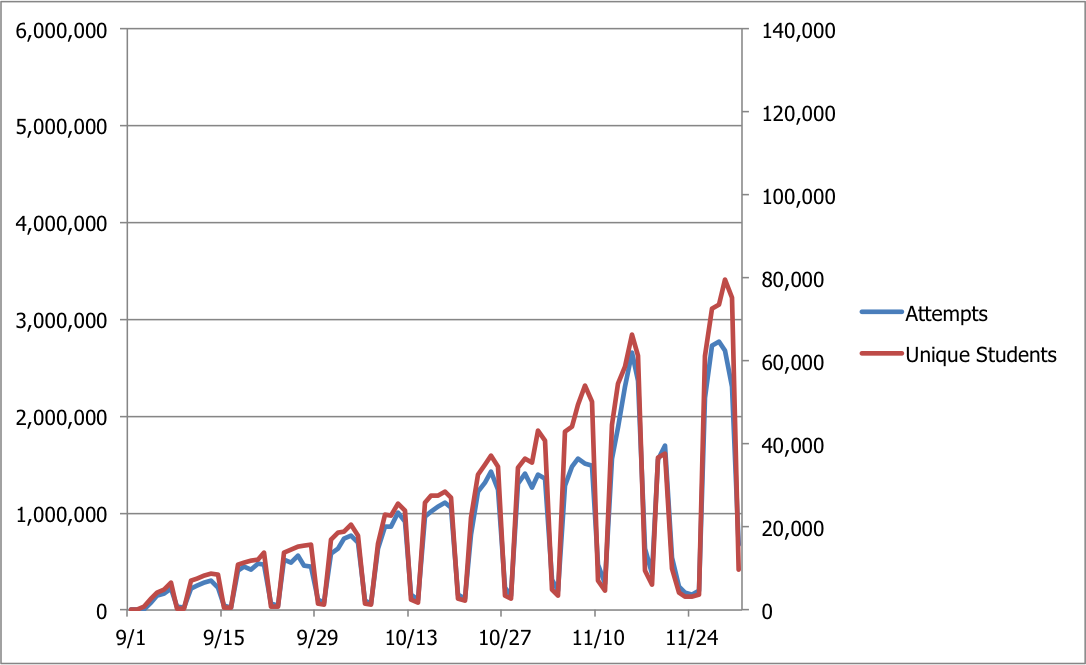
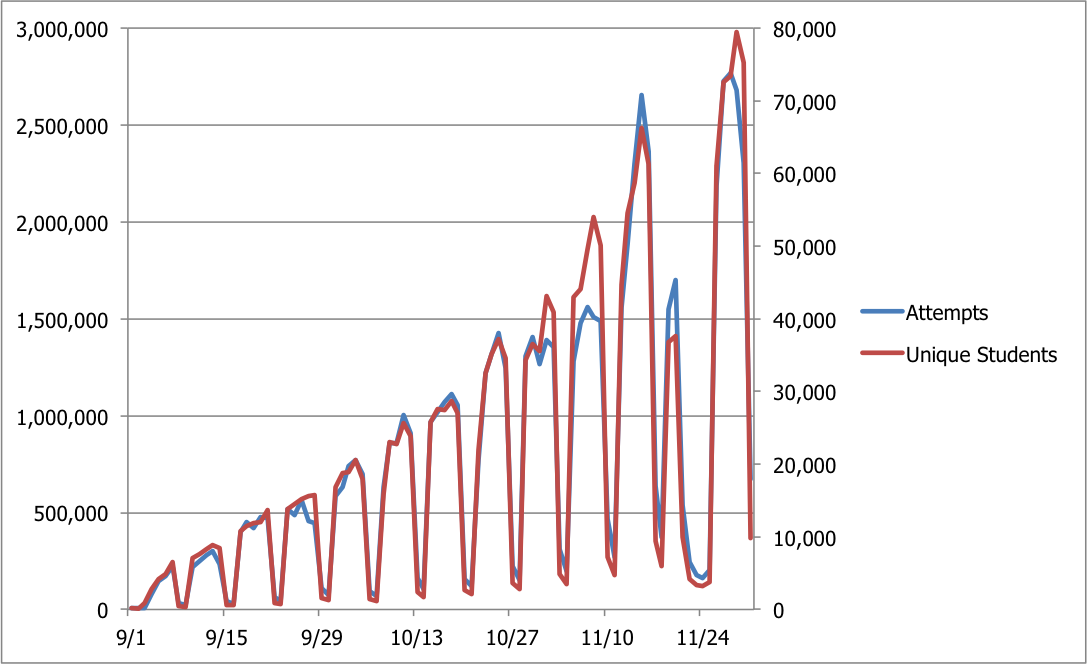
build more of a "what we were afraid of" theme in first part and last part; add vertical + horizontal distinctions wrt schema similarity (thx seejee)

diff --git a/slides/sharding-your-rails-app.html b/slides/sharding-your-rails-app.html
@@ -91,6 +91,16 @@
   <h3>Standardized tests loom in April</h3>
 </section>
 
+<section class="slide">
+  <h2>Attempts Sep-Nov</h2>
+  <img src="images/attempts_sep-nov.png" />
+</section>
+
+<section class="slide">
+  <h2>...will it lead to this?</h2>
+  <img src="images/attempts_sep-nov-what_we_were_afraid_of.png" />
+</section>
+
 <!--
 
 Removing this. unless I can find hard numbers on how big the database
@@ -157,8 +167,8 @@ about as much as I remember
 <section class="slide">
   <h2>Sharding types</h2>
   <ul>
-    <li>Vertical: by function, different schemas</li>
-    <li>Horizontal: by record, same schemas different data</li>
+    <li>Vertical: by function</li>
+    <li>Horizontal: by record set</li>
   </ul>
 </section>
 
@@ -175,6 +185,9 @@ about as much as I remember
 
 <section class="slide">
   <h2>Vertical sharding</h2>
+  <ul>
+   <li>Different schemas + models on different databases</li>
+  </ul>
   <img src="images/database_grid_functional_vertical_generic.png">
 </section>
 
@@ -200,10 +213,15 @@ about as much as I remember
   <ul>
     <li>Pain of JOINs felt in functional coupling</li>
     <li>Splitting functionally: initial cost then cheap (in Rails)</li>
+    <li>Likely easier if your app is newer (coupling creep)</li>
+  </ul>
 </section>
 
 <section class="slide">
   <h2>Horizontal sharding</h2>
+  <ul>
+   <li>Same schemas + models on different databases</li>
+  </ul>
   <img src="images/database_grid_record_horizontal_generic.png">
 </section>
 
@@ -360,13 +378,13 @@ about as much as I remember
 </section>
 
 <section class="slide">
-  <h2>Growth happened</h2>
+  <h2>Growth happened...</h2>
   <img src="images/students_and_attempts_jan-apr.png" />
 </section>
 
 <section class="slide">
-  <h2>...as dramatic?</h2>
-  <img src="images/attempts_sep-apr.png" />
+  <h2>...as bad as feared?</h2>
+  <img src="images/attempts_sep-apr-what_we_were_afraid_of.png" />
 </section>
 
 <section class="slide">
@@ -378,7 +396,6 @@ about as much as I remember
   <h2>Performance is better*</h2>
   <img src="images/post-sharding-performance.png" />
   <img src="images/post-sharding-throughput.png" />
-  add a january to march graph
 </section>
 
 <section class="slide">
@@ -389,7 +406,8 @@ about as much as I remember
 <section class="slide">
   <h2>Building now: Data Warehouse</h2>
   <ul>
-    <li>Benefits: archiving data out of the write-heavy app, faster queries for reporting</li>
+    <li>Benefits: archiving data out of the write-heavy app</li>
+    <li>Dimensional schema: faster queries for reporting</li>
     <li>Taking time, so would not have helped in our window</li>
     <li>... but we need it anyway for better reports.</li>
   </ul>
